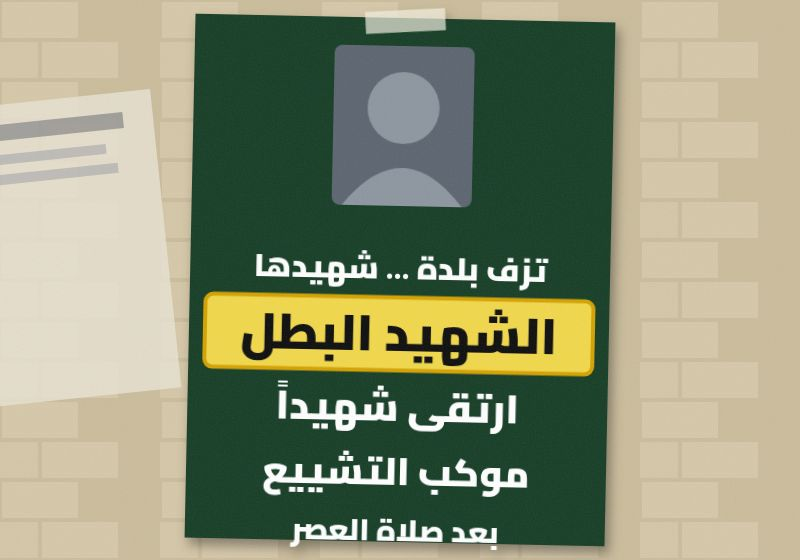
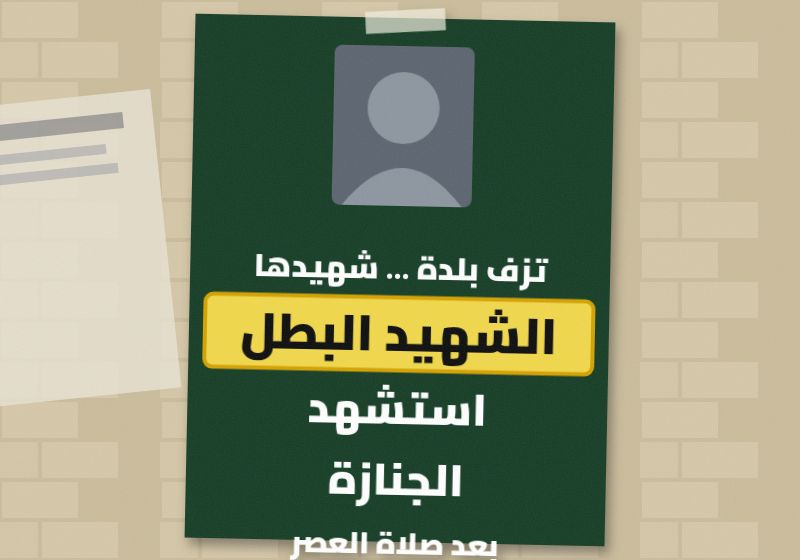
Posters: جنازة / استشهد / دعوة / ورقة نعي fixes; reorder emergency by field priority (v275)
- תהלוכת הלוויה → الجنازة (was موكب التشييع)
- נהרג → استشهد (was ارتقى شهيداً)
- קריאה/גיוס → دعوة (was النفير العام)
- מודעת אבל: note the full notice is ورقة نعي
- Emergency grid reordered: immediate-action tools (checkpoint, commands,
  threat, answers, inspection, vehicle, triage) on top; reading, de-escalation,
  suspect description, crowd and sensitive-population tools below.

Claude-Session: https://claude.ai/code/session_01JWitva4KuM16NEBmg4q8Jg

Changed region(s): [[0.3125, 0.6679, 0.6562, 1.0]]

diff --git a/index.html b/index.html
@@ -17795,12 +17795,12 @@ VIS_NUM_EX.concat(VIS_DOCS,VIS_CARS,VIS_ROAD,VIS_TOWNS).forEach(function(r){ if(
 var VIS_POSTER=[
   {img:'p-strike',          ar:'إضراب شامل',    he:'שביתה כללית', trans:'אִצְ׳רַאבּ שַאמֶל', tip:'הכול סגור. סימן למתיחות'},
   {img:'p-strike-rage',     ar:'يوم غضب',       he:'יום זעם', trans:'יוֹם עַ׳צַ׳בּ', tip:'קריאה להפגנות ולעימותים. סימן אזהרה'},
-  {img:'p-strike-nafir',    ar:'النفير العام',  he:'קריאה כללית לצאת (גיוס המונים)', trans:'אִלנַּפִיר אִלעַאם'},
+  {img:'p-strike-nafir',    ar:'دعوة',          he:'קריאה / הזמנה (לצאת, להתכנס)', trans:'דַעְוֶה', tip:'קריאה לציבור לצאת. בהקשר של שביתה או עימות — סימן אזהרה'},
   {img:'p-strike-statement',ar:'بيان',          he:'הודעה / כרוז רשמי', trans:'בַּיַאן', tip:'הודעה של ארגון או ועד'},
   {img:'p-martyr-hero',     ar:'الشهيد البطل',  he:'השהיד הגיבור', trans:'אִלשַּהִיד אִלבַּטַל', tip:'פוסטר הנצחה. עליו שם, תמונה ולעיתים סמל ארגון'},
   {img:'p-martyr-rose',     ar:'ارتقى شهيداً',  he:'"עלה כשהיד" (נהרג)', trans:'אִרְתַקַא שַהִידַן'},
   {img:'p-martyr-funeral',  ar:'موكب التشييع',  he:'תהלוכת הלוויה', trans:'מַוְכֵּבּ אִלתַּשְיִיע', tip:'התכנסות המונים, לרוב אחרי צהריים'},
-  {img:'p-obit',            ar:'نعي',           he:'מודעת אבל', trans:'נַעְי', tip:'הודעה על פטירה (מוות טבעי)'},
+  {img:'p-obit',            ar:'نعي',           he:'מודעת אבל', trans:'נַעְי', tip:'המודעה כולה נקראת ورقة نعي (וַרַקַת נַעְי) — הודעה על פטירה, מוות טבעי'},
   {img:'p-obit-late',       ar:'المرحوم',       he:'המנוח', trans:'אִלמַרְחוּם', tip:'ואחריו שם הנפטר'},
   {img:'p-obit-house',      ar:'بيت العزاء',    he:'בית האבלים', trans:'בֵּית אִלעַזַא', tip:'המקום שאליו באים לנחם'},
   {img:'p-wedding',         ar:'حفل زفاف',      he:'חתונה', trans:'חַפְל זַפַאף', tip:'התכנסות המונים — אבל שמחה, לא אירוע חריג'}
@@ -21936,19 +21936,21 @@ function rQK(){
   h+='</div>';
   // Cubes in the order the user set: הוראות/מה עונים · בידוק/תיאור · רכב/רפואה ·
   // קהל/ילדים · הרגעה (last).
+  // Order = field priority: what a soldier needs first in a live incident at the
+  // top, situational/population-specific tools lower down.
   var EMERG_CUBES=[
     {tab:'checkpoint', emoji:'🛑', name:'רגע ראשון במחסום',        sub:'רצף העצירה המיידי',        color:'gold'},
-    {tab:'ord',     emoji:'🚨',  name:'הוראות מיידיות',          sub:'תבנית מסודרת',           color:'red'},
-    {tab:'answers', emoji:'💬',  name:'מה עונים לך',              sub:'הבנת תשובות האזרח',       color:'sky'},
+    {tab:'ord',     emoji:'🚨',  name:'הוראות מיידיות',          sub:'עצור, ידיים, אל תזוז',    color:'red'},
     {tab:'threat',  emoji:'👂',  name:'מה שומעים בשטח',          sub:'איום אמיתי מול תמים',      color:'red'},
-    {tab:'visual',  emoji:'📷',  name:'זיהוי ערבית בשטח',        sub:'שלטים, מסמכים, רכב + מבחן', color:'sky'},
+    {tab:'answers', emoji:'💬',  name:'מה עונים לך',              sub:'הבנת תשובות האזרח',       color:'sky'},
     {tab:'chk',     emoji:'🪪',  name:'בידוק וזיהוי',            sub:'תבנית מסודרת',           color:'blue'},
-    {tab:'desc',    emoji:'🎯',  name:'תיאור חשוד',              sub:'מה לשאול ואיך לתאר',       color:'gold'},
     {tab:'veh',     emoji:'🚗',  name:'רכב ומחסום',              sub:'תבנית מסודרת',           color:'orange'},
     {tab:'triage',  emoji:'🩺',  name:"רפואה וטריאז'",           sub:'בדיקת נפגע — סדר פעולות',  color:'teal'},
+    {tab:'visual',  emoji:'📷',  name:'זיהוי ערבית בשטח',        sub:'שלטים, מסמכים, רכב + מבחן', color:'sky'},
+    {tab:'calm',    emoji:'🕊', name:'הרגעה ושכנוע',            sub:'הורדת מתח ושיתוף פעולה',   color:'rose'},
+    {tab:'desc',    emoji:'🎯',  name:'תיאור חשוד',              sub:'מה לשאול ואיך לתאר',       color:'gold'},
     {tab:'crowd',   emoji:'👥',  name:'קהל ואירועים',            sub:'ניהול קהל והרחקה',         color:'purple'},
-    {tab:'kids',    emoji:'🧒',  name:'ילדים ואוכלוסיות רגישות', sub:'מגע רגיש ומרגיע',          color:'mint'},
-    {tab:'calm',    emoji:'🕊', name:'הרגעה ושכנוע',            sub:'הורדת מתח ושיתוף פעולה',   color:'rose'}
+    {tab:'kids',    emoji:'🧒',  name:'ילדים ואוכלוסיות רגישות', sub:'מגע רגיש ומרגיע',          color:'mint'}
   ];
   EMERG_CUBES.forEach(function(c){
     h+='<div class="emerg-cube '+c.color+'" onclick="navToTab(\''+c.tab+'\')">';
@@ -23094,7 +23096,7 @@ window.addEventListener('load', function(){
 <script>
 // Version stamp — shown in the admin panel so we can confirm which build is live
 // on a device (stale service-worker caches were causing "my changes don't show").
-window.APP_VERSION = 'v274';
+window.APP_VERSION = 'v275';
 
 // Register the service worker for full offline use in the field, WITH update
 // detection: when a new version installs, offer a one-tap refresh instead of the

diff --git a/tools/written-images/gen.html b/tools/written-images/gen.html
@@ -182,8 +182,8 @@ tpl.poster=(o)=>{
   return wrap(stoneWall('#d6c8a9','#cbbd9c'),b);
 };
 const OBIT={paper:'#fbfaf6',frame:'#111',fg:'#111',lines:[['نعي',72],['انتقل إلى رحمة الله تعالى',34],['المرحوم',40],['الحاج محمود أحمد',36],['تقبل التعازي في',32],['بيت العزاء',44]]};
-const MARTYR={paper:'#123d26',fg:'#fff',dark:1,photo:1,lines:[['تزف بلدة ... شهيدها',32],['الشهيد البطل',50,'#f3d67a'],['ارتقى شهيداً',40],['موكب التشييع',38],['بعد صلاة العصر',30]]};
-const STRIKE={paper:'#f7f1e1',frame:'#b3121f',fg:'#1b1b1b',lines:[['بيان',56,'#b3121f'],['إضراب شامل',48],['حداداً على روح الشهيد',32],['يوم غضب',50,'#b3121f'],['النفير العام',42,'#b3121f'],['مسيرة من دوار الساعة',32]]};
+const MARTYR={paper:'#123d26',fg:'#fff',dark:1,photo:1,lines:[['تزف بلدة ... شهيدها',32],['الشهيد البطل',50,'#f3d67a'],['استشهد',44],['الجنازة',44],['بعد صلاة العصر',30]]};
+const STRIKE={paper:'#f7f1e1',frame:'#b3121f',fg:'#1b1b1b',lines:[['بيان',56,'#b3121f'],['إضراب شامل',48],['حداداً على روح الشهيد',32],['يوم غضب',50,'#b3121f'],['دعوة',48,'#b3121f'],['مسيرة من دوار الساعة',32]]};
 const WEDDING={paper:'#fdf3f6',frame:'#c25b86',fg:'#5b2140',lines:[['دعوة',44],['حفل زفاف',64,'#c25b86'],['العريس: محمد',40],['العروس: سارة',40],['الجمعة الساعة ٨ مساءً',30]]};
 const PST=(base,hl)=>tpl.poster(Object.assign({},base,{hl}));
 const stoneW={defs:stoneWall(),body:`<rect width="${W}" height="${H}" fill="url(#st)"/>`};

diff --git a/sw.js b/sw.js
@@ -1,6 +1,6 @@
 /* Service worker for "ערבית מצילה חיים" — offline-first field use.
    Bump CACHE when shipping changes that must invalidate old caches. */
-const CACHE = 'asl-v283';
+const CACHE = 'asl-v284';
 // Recordings + fonts live in a separate cache that SURVIVES app updates —
 // otherwise every version bump would silently wipe the downloaded offline pack.
 const MEDIA = 'asl-media-v1';
